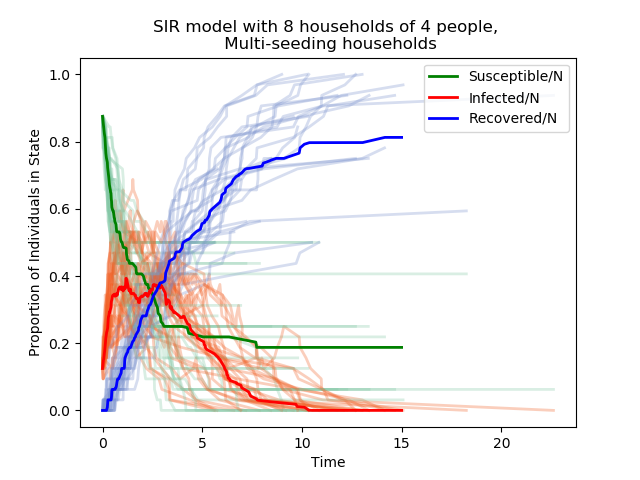
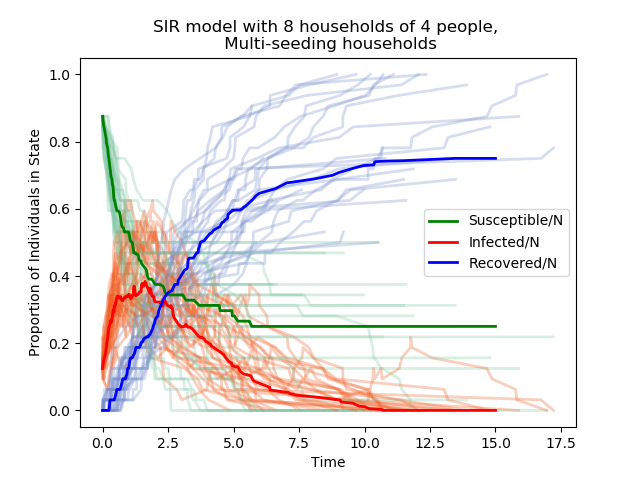
final graph init

diff --git a/Density_Frequency_Experimentation.py b/Density_Frequency_Experimentation.py
@@ -7,7 +7,7 @@ import copy
 from matplotlib import pyplot as plt
 from pythonCompartment.sirNetworksFrequency import gillespieDirectNetwork as gillespieFrequency
 from pythonCompartment.sirNetworksDensity import gillespieDirectNetwork as gillespieDensity
-from PythonSimulation.simulate import freq_dens_simulation
+from PythonSimulation.simulate import freq_dens_simulation, freq_dens_simulation_prop
 
 def create_fixed_neighbourhood(N, n):
     '''
@@ -144,7 +144,7 @@ def initHazards(network, infecteds, N):
     numInfNei[infecteds] = 0
     return numInfNei, numSusNei
 
-def main(er_small_test=True, household_test=True, random_test=True, random_sd_test=True):
+def main(er_small_test=True, household_test=True, random_test=True, random_sd_test=True,random_sd_test_prop=True):
     '''
     Main loop for testing within this Python file
     '''
@@ -502,5 +502,102 @@ def main(er_small_test=True, household_test=True, random_test=True, random_sd_te
         plt.savefig(f"PythonPlotting/Freq_Dens_nbinom_Test/Comp")
         plt.savefig(f"PythonPlotting/Comparisons/FD_nBinom_Household_Comp")
 
+    if(random_sd_test_prop):
+        print("Beginning density vs frequency household nBinom simulations, mean = 8, sd in [3,5,7,9]")
+        # initialise variables
+        tMax = 20
+        maxalpha = 0.4
+        maxbeta = 4
+        t = np.linspace(0,tMax,1000)
+        j = 30
+        mu = 8
+        sd = np.array([3,5,7,9])
+        ps = mu/sd**2
+        ns = mu**2/(sd**2-mu)
+
+        N = 15
+        n = ns[0]
+        p = ps[0]
+        network, house_sizes = create_nbinom_neighbourhood(N,n,p)
+        num = np.sum(house_sizes)
+        iTotal, sTotal, rTotal, numInfNei, numSusNei, susceptible, infecteds = setNetwork_random(network,N,n,house_sizes,N)
+        rates = np.zeros(2*num)
+        for inf in infecteds:
+            # set recovery hazard
+            rates[num+inf] = maxalpha
+            # set infection hazard
+            rates[inf] = maxbeta*numSusNei[inf]/network.degree(inf)
+        title = f"Freq. vs Dens. for {N} households of nBinom({n:.3f},{p:.3f}) people"
+        fname = f"PythonPlotting/Freq_Dens_nbinom_Test_prop/{sd[0]}"
+        S4freq, I4freq, R4freq, S4dens, I4dens, R4dens = freq_dens_simulation_prop(j, gillespieFrequency, gillespieDensity, tMax, network, iTotal, sTotal, rTotal, numSusNei, rates, susceptible, 
+        maxalpha, maxbeta, title, fname)
+
+        n = ns[1]
+        p = ps[1]
+        network, house_sizes = create_nbinom_neighbourhood(N,n,p)
+        num = np.sum(house_sizes)
+        iTotal, sTotal, rTotal, numInfNei, numSusNei, susceptible, infecteds = setNetwork_random(network,N,n,house_sizes,N)
+        rates = np.zeros(2*num)
+        for inf in infecteds:
+            # set recovery hazard
+            rates[num+inf] = maxalpha
+            # set infection hazard
+            rates[inf] = maxbeta*numSusNei[inf]/network.degree(inf)
+        title = f"Freq. vs Dens. for {N} households of nBinom({n:.3f},{p:.3f}) people"
+        fname = f"PythonPlotting/Freq_Dens_nbinom_Test_prop/{sd[1]}"
+        S6freq, I6freq, R6freq, S6dens, I6dens, R6dens = freq_dens_simulation_prop(j, gillespieFrequency, gillespieDensity, tMax, network, iTotal, sTotal, rTotal, numSusNei, rates, susceptible, 
+        maxalpha, maxbeta, title, fname)
+
+
+        n = ns[2]
+        p = ps[2]
+        network, house_sizes = create_nbinom_neighbourhood(N,n,p)
+        num = np.sum(house_sizes)
+        iTotal, sTotal, rTotal, numInfNei, numSusNei, susceptible, infecteds = setNetwork_random(network,N,n,house_sizes,N)
+        rates = np.zeros(2*num)
+        for inf in infecteds:
+            # set recovery hazard
+            rates[num+inf] = maxalpha
+            # set infection hazard
+            rates[inf] = maxbeta*numSusNei[inf]/network.degree(inf)
+        title = f"Freq. vs Dens. for {N} households of nBinom({n:.3f},{p:.3f}) people"
+        fname = f"PythonPlotting/Freq_Dens_nbinom_Test_prop/{sd[2]}"
+        S8freq, I8freq, R8freq, S8dens, I8dens, R8dens = freq_dens_simulation_prop(j, gillespieFrequency, gillespieDensity, tMax, network, iTotal, sTotal, rTotal, numSusNei, rates, susceptible, 
+        maxalpha, maxbeta, title, fname)
+
+
+        n = ns[3]
+        p = ps[3]
+        network, house_sizes = create_nbinom_neighbourhood(N,n,p)
+        num = np.sum(house_sizes)
+        iTotal, sTotal, rTotal, numInfNei, numSusNei, susceptible, infecteds = setNetwork_random(network,N,n,house_sizes,N)
+        rates = np.zeros(2*num)
+        for inf in infecteds:
+            # set recovery hazard
+            rates[num+inf] = maxalpha
+            # set infection hazard
+            rates[inf] = maxbeta*numSusNei[inf]/network.degree(inf)
+        title = f"Freq. vs Dens. for {N} households of nBinom({n:.3f},{p:.3f}) people"
+        fname = f"PythonPlotting/Freq_Dens_nbinom_Test_prop/{sd[3]}"
+        S10freq, I10freq, R10freq, S10dens, I10dens, R10dens = freq_dens_simulation_prop(j, gillespieFrequency, gillespieDensity, tMax, network, iTotal, sTotal, rTotal, numSusNei, rates, susceptible, 
+        maxalpha, maxbeta, title, fname)
+
+
+        fig = plt.figure()
+        plt.plot(t, I4freq, color="red",label="SD = 3 - Freq.",lw = 2, alpha=0.5,figure=fig)
+        plt.plot(t, I4dens, color="red",linestyle="dashed",label="SD = 3 - Dens.",lw = 2, alpha=0.5,figure=fig)
+        plt.plot(t, I6freq, color="blue",label="SD = 5 - Freq.",lw = 2, alpha=0.5,figure=fig)
+        plt.plot(t, I6dens, color="blue",linestyle="dashed",label="SD = 5  - Dens.",lw = 2, alpha=0.5,figure=fig)
+        plt.plot(t, I8freq, color="green",label="SD = 7 - Freq.",lw = 2, alpha=0.5,figure=fig)
+        plt.plot(t, I8dens, color="green",linestyle="dashed",label="SD = 7 - Dens.",lw = 2, alpha=0.5,figure=fig)
+        plt.plot(t, I10freq, color="orange",label="SD = 9 - Freq.",lw = 2, alpha=0.5,figure=fig)
+        plt.plot(t, I10dens, color="orange",linestyle="dashed",label="SD = 9 - Dens.",lw = 2, alpha=0.5,figure=fig)
+        plt.legend()
+        plt.xlabel("Time")
+        plt.ylabel("Proportion of Individuals Infected")
+        plt.title(f"Freq. vs. Dens. with varying nBinom standard deviations")
+        plt.savefig(f"PythonPlotting/Freq_Dens_nbinom_Test_prop/Comp_prop")
+        plt.savefig(f"PythonPlotting/Comparisons/FD_nBinom_Household_Comp_prop")
+
 if __name__=="__main__":
-    main(False, True, False, False)
+    main(False, False, False, False)

diff --git a/Toy_Network_Experimentation.py b/Toy_Network_Experimentation.py
@@ -675,10 +675,10 @@ def main(single_lattices=True, multi_lattices=True,k_random=True,k_workplace=Tru
         maxalpha, maxbeta, title, fname)
 
         fig = plt.figure()
-        plt.plot(t, I2, color="blue",label="Number of Households = 8",lw = 2, alpha=0.5,figure=fig)
-        plt.plot(t, I4, color="green",label="Number of Households = 16",lw = 2, alpha=0.5,figure=fig)
-        plt.plot(t, I8, color="red",label="Number of Households = 32",lw = 2, alpha=0.5,figure=fig)
-        plt.plot(t, I16, color="black",label="Number of Households = 64",lw = 2, alpha=0.5,figure=fig)
+        plt.plot(t, I2, color="blue",label="N = 8",lw = 2, alpha=0.5,figure=fig)
+        plt.plot(t, I4, color="green",label="N = 16",lw = 2, alpha=0.5,figure=fig)
+        plt.plot(t, I8, color="red",label="N = 32",lw = 2, alpha=0.5,figure=fig)
+        plt.plot(t, I16, color="black",label="N = 64",lw = 2, alpha=0.5,figure=fig)
         plt.legend()
         plt.xlabel("Time")
         plt.ylabel("Proportion of Infected Individuals")
@@ -758,10 +758,10 @@ def main(single_lattices=True, multi_lattices=True,k_random=True,k_workplace=Tru
         maxalpha, maxbeta, title, fname)
 
         fig = plt.figure()
-        plt.plot(t, I8, color="blue",label="Number of Households = 8",lw = 2, alpha=0.5,figure=fig)
-        plt.plot(t, I16, color="green",label="Number of Households = 16",lw = 2, alpha=0.5,figure=fig)
-        plt.plot(t, I32, color="red",label="Number of Households = 32",lw = 2, alpha=0.5,figure=fig)
-        plt.plot(t, I64, color="black",label="Number of Households = 64",lw = 2, alpha=0.5,figure=fig)
+        plt.plot(t, I8, color="blue",label="N = 8",lw = 2, alpha=0.5,figure=fig)
+        plt.plot(t, I16, color="green",label="N = 16",lw = 2, alpha=0.5,figure=fig)
+        plt.plot(t, I32, color="red",label="N = 32",lw = 2, alpha=0.5,figure=fig)
+        plt.plot(t, I64, color="black",label="N = 64",lw = 2, alpha=0.5,figure=fig)
         plt.legend()
         plt.xlabel("Time")
         plt.ylabel("Number of Infected Individuals")
@@ -841,13 +841,13 @@ def main(single_lattices=True, multi_lattices=True,k_random=True,k_workplace=Tru
         maxalpha, maxbeta, title, fname)
 
         fig = plt.figure()
-        plt.plot(t, I2, color="blue",label="Number of Households = 8",lw = 2, alpha=0.5,figure=fig)
-        plt.plot(t, I4, color="green",label="Number of Households = 16",lw = 2, alpha=0.5,figure=fig)
-        plt.plot(t, I8, color="red",label="Number of Households = 32",lw = 2, alpha=0.5,figure=fig)
-        plt.plot(t, I16, color="black",label="Number of Households = 64",lw = 2, alpha=0.5,figure=fig)
+        plt.plot(t, I2, color="blue",label="N = 8",lw = 2, alpha=0.5,figure=fig)
+        plt.plot(t, I4, color="green",label="N = 16",lw = 2, alpha=0.5,figure=fig)
+        plt.plot(t, I8, color="red",label="N = 32",lw = 2, alpha=0.5,figure=fig)
+        plt.plot(t, I16, color="black",label="N = 64",lw = 2, alpha=0.5,figure=fig)
         plt.legend()
         plt.xlabel("Time")
-        plt.ylabel("Number of Infected Individuals")
+        plt.ylabel("Proportion of Individuals Infected")
         plt.title(f"SIR model of a varying number of single seeded households")
         plt.savefig(f"PythonPlotting/Single_Household_Prop/N_Comparison")
         plt.savefig(f"PythonPlotting/Comparisons/Single_N_Comparison_prop")
@@ -855,4 +855,4 @@ def main(single_lattices=True, multi_lattices=True,k_random=True,k_workplace=Tru
         
 
 if __name__=="__main__":
-    main(False, False, False, False,False,False,False,False)
+    main(single_lattices=False, multi_lattices=False,k_random=False,k_workplace=False,strong_single_lattices=False,k_erdos_neighbourhood=False,strong_single_prop=False,multi_lattices_prop=False,single_lattices_prop=True)

diff --git a/PythonSimulation/simulate.py b/PythonSimulation/simulate.py
@@ -54,6 +54,57 @@ def freq_dens_simulation(k, freq_func, dens_func, tMax, network, iTotal, sTotal,
     plt.close()
     return Sfreq,Ifreq,Rfreq,Sdens,Idens,Rdens
 
+def freq_dens_simulation_prop(k, freq_func, dens_func, tMax, network, iTotal, sTotal, rTotal, numSusNei, rates, susceptible, maxalpha, maxbeta, title, fname):
+    '''
+    Method to run and plot freq. vs. dens. experimentation
+    Returns the median SIR values for freq. and dens. scalings 
+    '''
+    t = np.linspace(0,tMax,1000)
+    Sfreq = {}
+    Ifreq = {}
+    Rfreq = {}
+    Sdens = {}
+    Idens = {}
+    Rdens = {}
+    fig, (ax1,ax2) = plt.subplots(nrows=1, ncols=2, sharex=True)
+    N = network.vcount()
+    for i in range(k):
+        ti, Si, Ii, Ri = freq_func(tMax, network, iTotal, sTotal, rTotal, copy.copy(numSusNei), copy.copy(rates), copy.copy(susceptible), maxalpha, maxbeta)
+        Sfreq[i] = np.interp(t, ti, Si, right=Si[-1])/N
+        Ifreq[i] = np.interp(t, ti, Ii, right=Ii[-1])/N
+        Rfreq[i] = np.interp(t, ti, Ri, right=Ri[-1])/N
+        ax1.plot(ti, Si/N, color="#82c7a5",lw = 2, alpha=0.3)
+        ax1.plot(ti, Ii/N, color="#f15e22",lw = 2, alpha=0.3)
+        ax1.plot(ti, Ri/N, color="#7890cd",lw = 2, alpha=0.3)
+        ti, Si, Ii, Ri = dens_func(tMax, network, iTotal, sTotal, rTotal, copy.copy(numSusNei), copy.copy(rates), copy.copy(susceptible), maxalpha, maxbeta)
+        Sdens[i] = np.interp(t, ti, Si, right=Si[-1])/N
+        Idens[i] = np.interp(t, ti, Ii, right=Ii[-1])/N
+        Rdens[i] = np.interp(t, ti, Ri, right=Ri[-1])/N
+        ax2.plot(ti, Si/N, color="#82c7a5",lw = 2, alpha=0.3)
+        ax2.plot(ti, Ii/N, color="#f15e22",lw = 2, alpha=0.3)
+        ax2.plot(ti, Ri/N, color="#7890cd",lw = 2, alpha=0.3)
+    Sfreq = np.median(np.array(list(Sfreq.values())),0)
+    Ifreq = np.median(np.array(list(Ifreq.values())),0)
+    Rfreq = np.median(np.array(list(Rfreq.values())),0)
+    Sdens = np.median(np.array(list(Sdens.values())),0)
+    Idens = np.median(np.array(list(Idens.values())),0)
+    Rdens = np.median(np.array(list(Rdens.values())),0)
+    line_labels = ["Susceptible", "Infected", "Recovered"]
+    S = ax1.plot(t, Sfreq, color="green",lw = 2)[0]
+    I = ax1.plot(t, Ifreq, color="red",lw = 2)[0]
+    R = ax1.plot(t, Rfreq, color="blue",lw = 2)[0]
+    ax2.plot(t, Sdens, color="green",lw = 2)
+    ax2.plot(t, Idens, color="red",lw = 2)
+    ax2.plot(t, Rdens, color="blue",lw = 2)
+    ax1.set_xlabel('Time')
+    ax2.set_xlabel('Time')
+    ax1.set_ylabel('Proportion of Individuals in State')
+    fig.legend(handles=[S, I, R],labels=line_labels,loc="center right")
+    fig.suptitle(title)
+    plt.savefig(fname)
+    plt.close()
+    return Sfreq,Ifreq,Rfreq,Sdens,Idens,Rdens
+
 def general_SIR_simulation(k, direct_func, tMax, network, iTotal, sTotal, rTotal, numSusNei, rates, susceptible, maxalpha, maxbeta, title, fname):
     '''
     Method to run and plot general SIR experimentation
@@ -576,7 +627,7 @@ def ode_N_simulation(g_func, f_func, tMax, networks, iTotal, sTotal, rTotal, num
     ax4.plot(t, Si, color="green",lw = 2)
     ax4.plot(t, Ii, color="red",lw = 2) 
     ax4.plot(t, Ri, color="blue",lw = 2)
-    ax4.text(8,6000,"N=10000\nDirect Method")
+    ax4.text(8,6000,"N=10000\nNext Reaction Method")
     ax3.set_xlabel('Time')
     ax4.set_xlabel('Time')
     

diff --git a/Small_World_Experimentation.py b/Small_World_Experimentation.py
@@ -230,11 +230,11 @@ def main(er_small_test=True, ring_small_test=True):
 
         fig = plt.figure()
         plt.plot(t, Ifull, color="red",label="Full",lw = 2, alpha=0.5,figure=fig)
-        plt.plot(t, I4, color="blue",label="Neighbourhood = 40",lw = 2, alpha=0.5,figure=fig)
-        plt.plot(t, I2, color="green",label="Neighbourhood = 20",lw = 2, alpha=0.5,figure=fig)
-        plt.plot(t, I1, color="yellow",label="Neighbourhood = 10",lw = 2, alpha=0.5,figure=fig)
-        plt.plot(t, I05, color="black",label="Neighbourhood = 5",lw = 2, alpha=0.5,figure=fig)
-        plt.plot(t, I02, color="orange",label="Neighbourhood = 2",lw = 2, alpha=0.5,figure=fig)
+        plt.plot(t, I4, color="blue",label="K = 40",lw = 2, alpha=0.5,figure=fig)
+        plt.plot(t, I2, color="green",label="K = 20",lw = 2, alpha=0.5,figure=fig)
+        plt.plot(t, I1, color="yellow",label="K = 10",lw = 2, alpha=0.5,figure=fig)
+        plt.plot(t, I05, color="black",label="K = 5",lw = 2, alpha=0.5,figure=fig)
+        plt.plot(t, I02, color="orange",label="K = 2",lw = 2, alpha=0.5,figure=fig)
         plt.legend()
         plt.xlabel("Time")
         plt.ylabel("Number of Infected Individuals")
